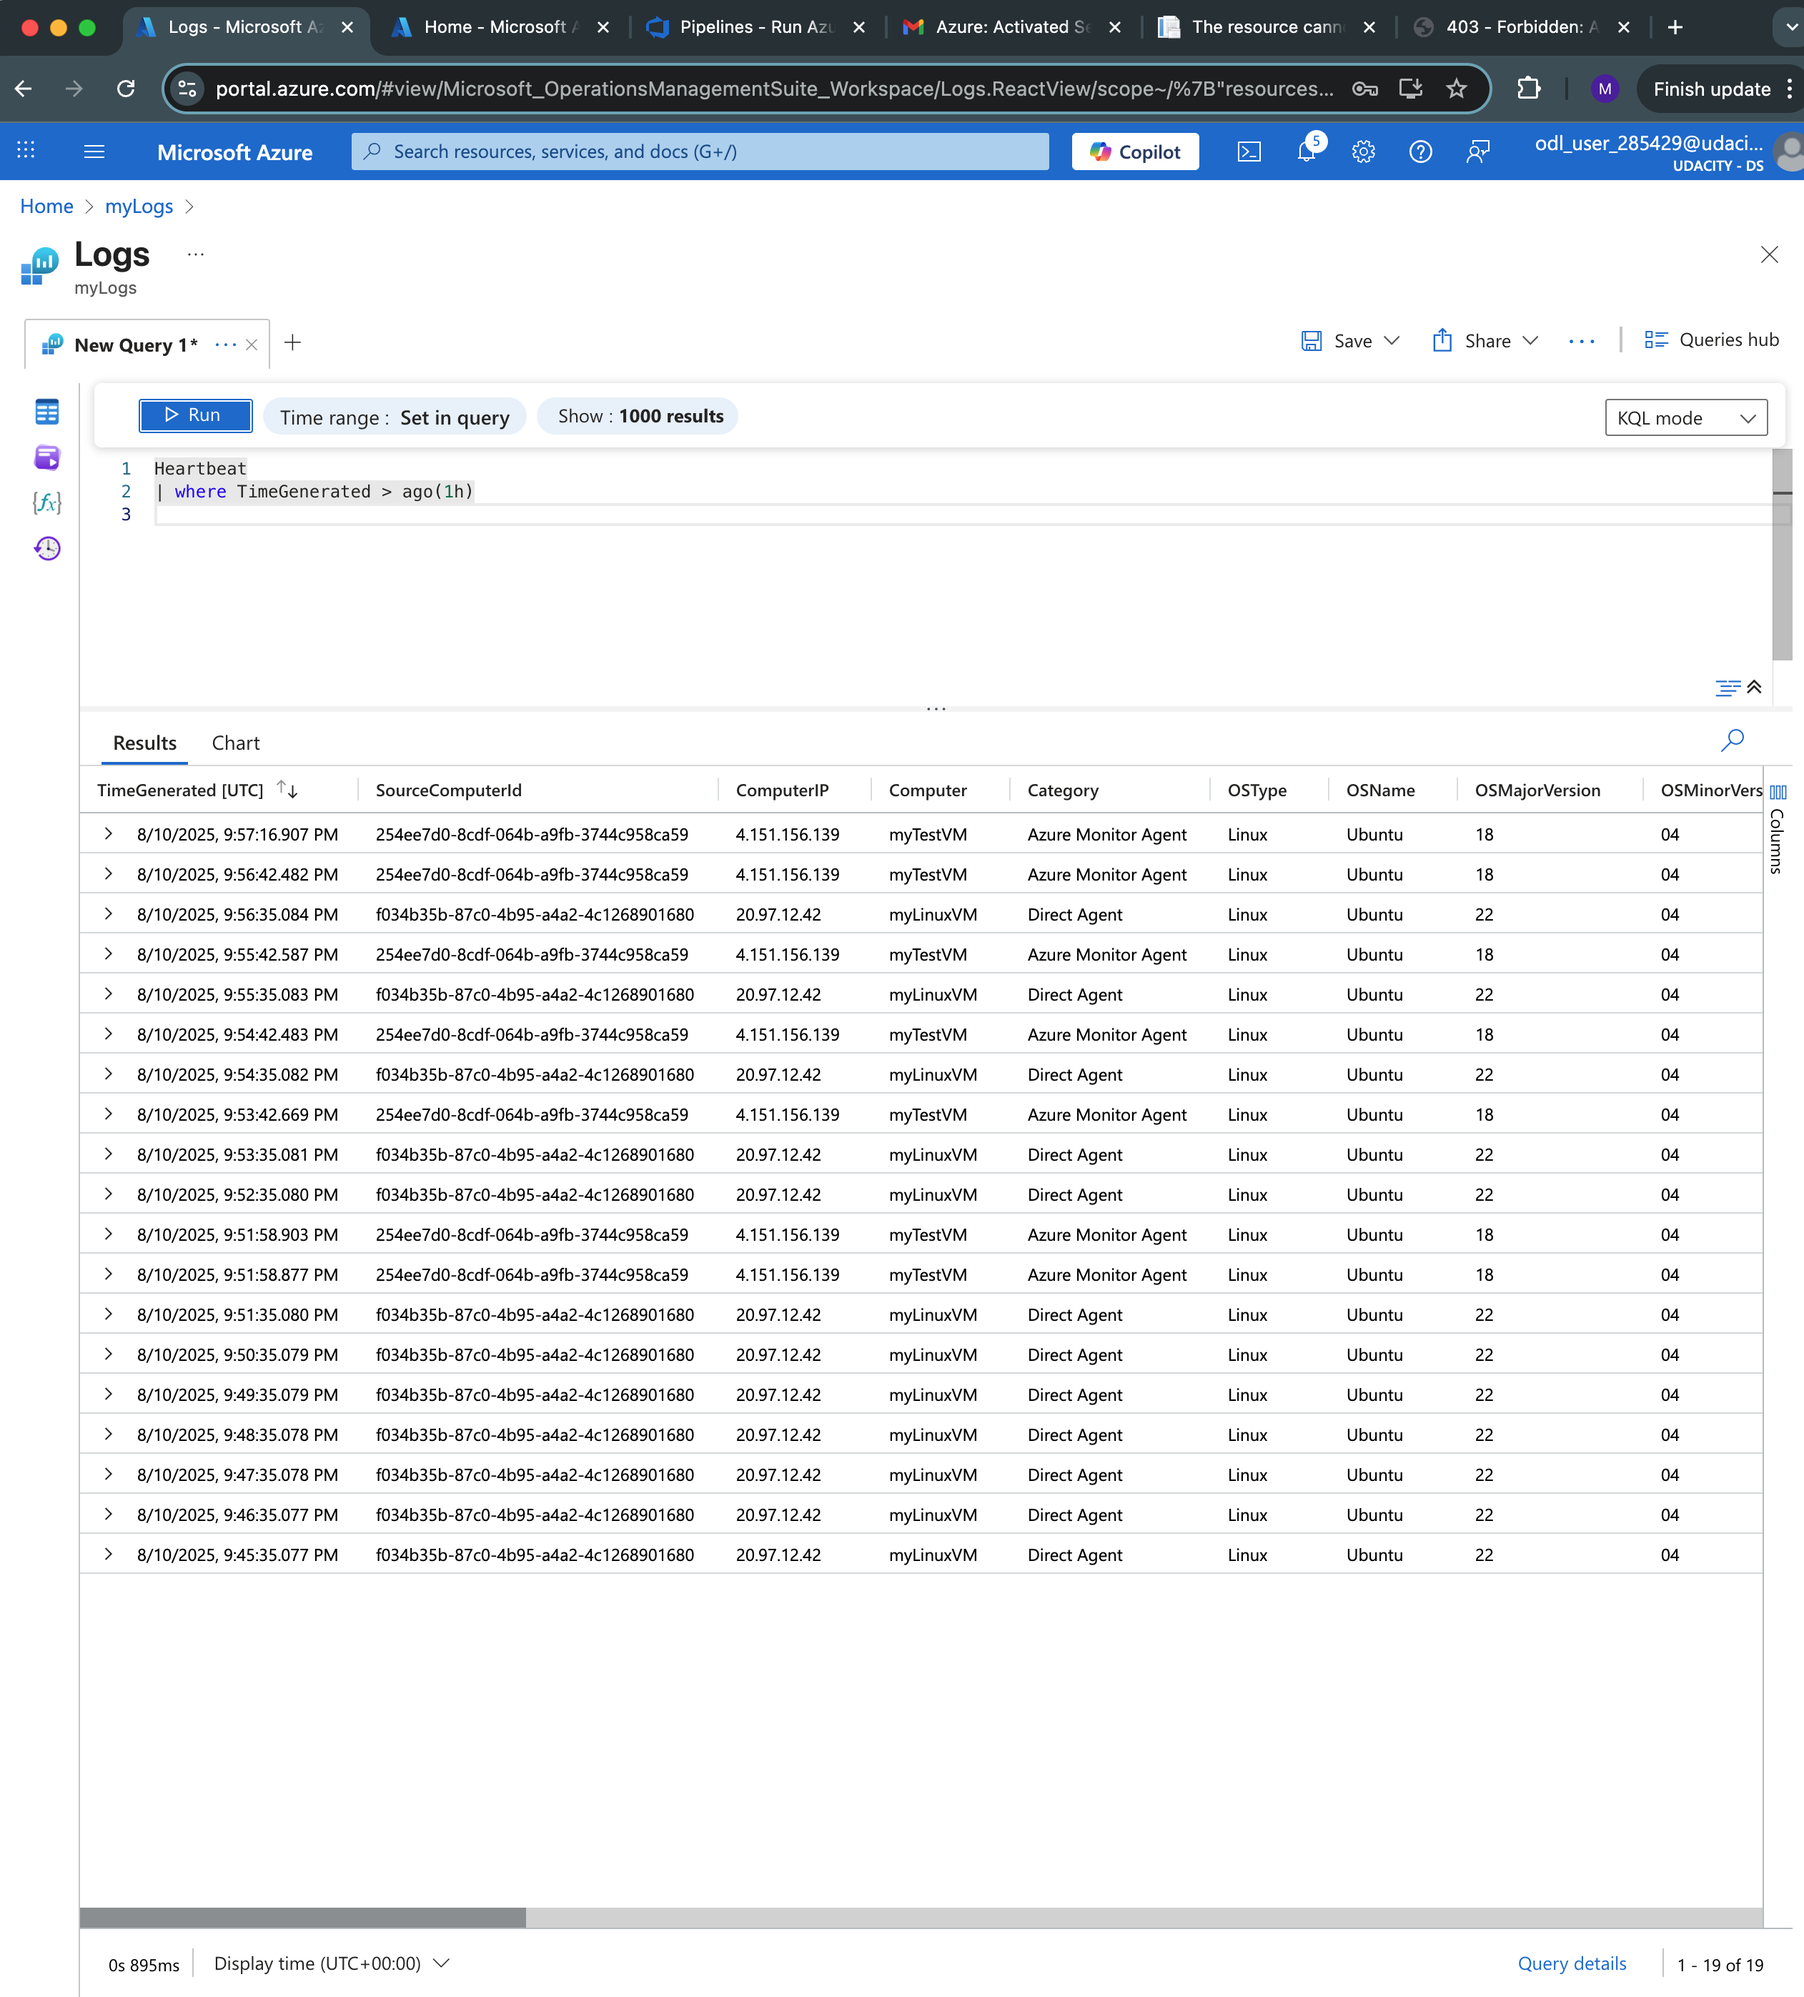
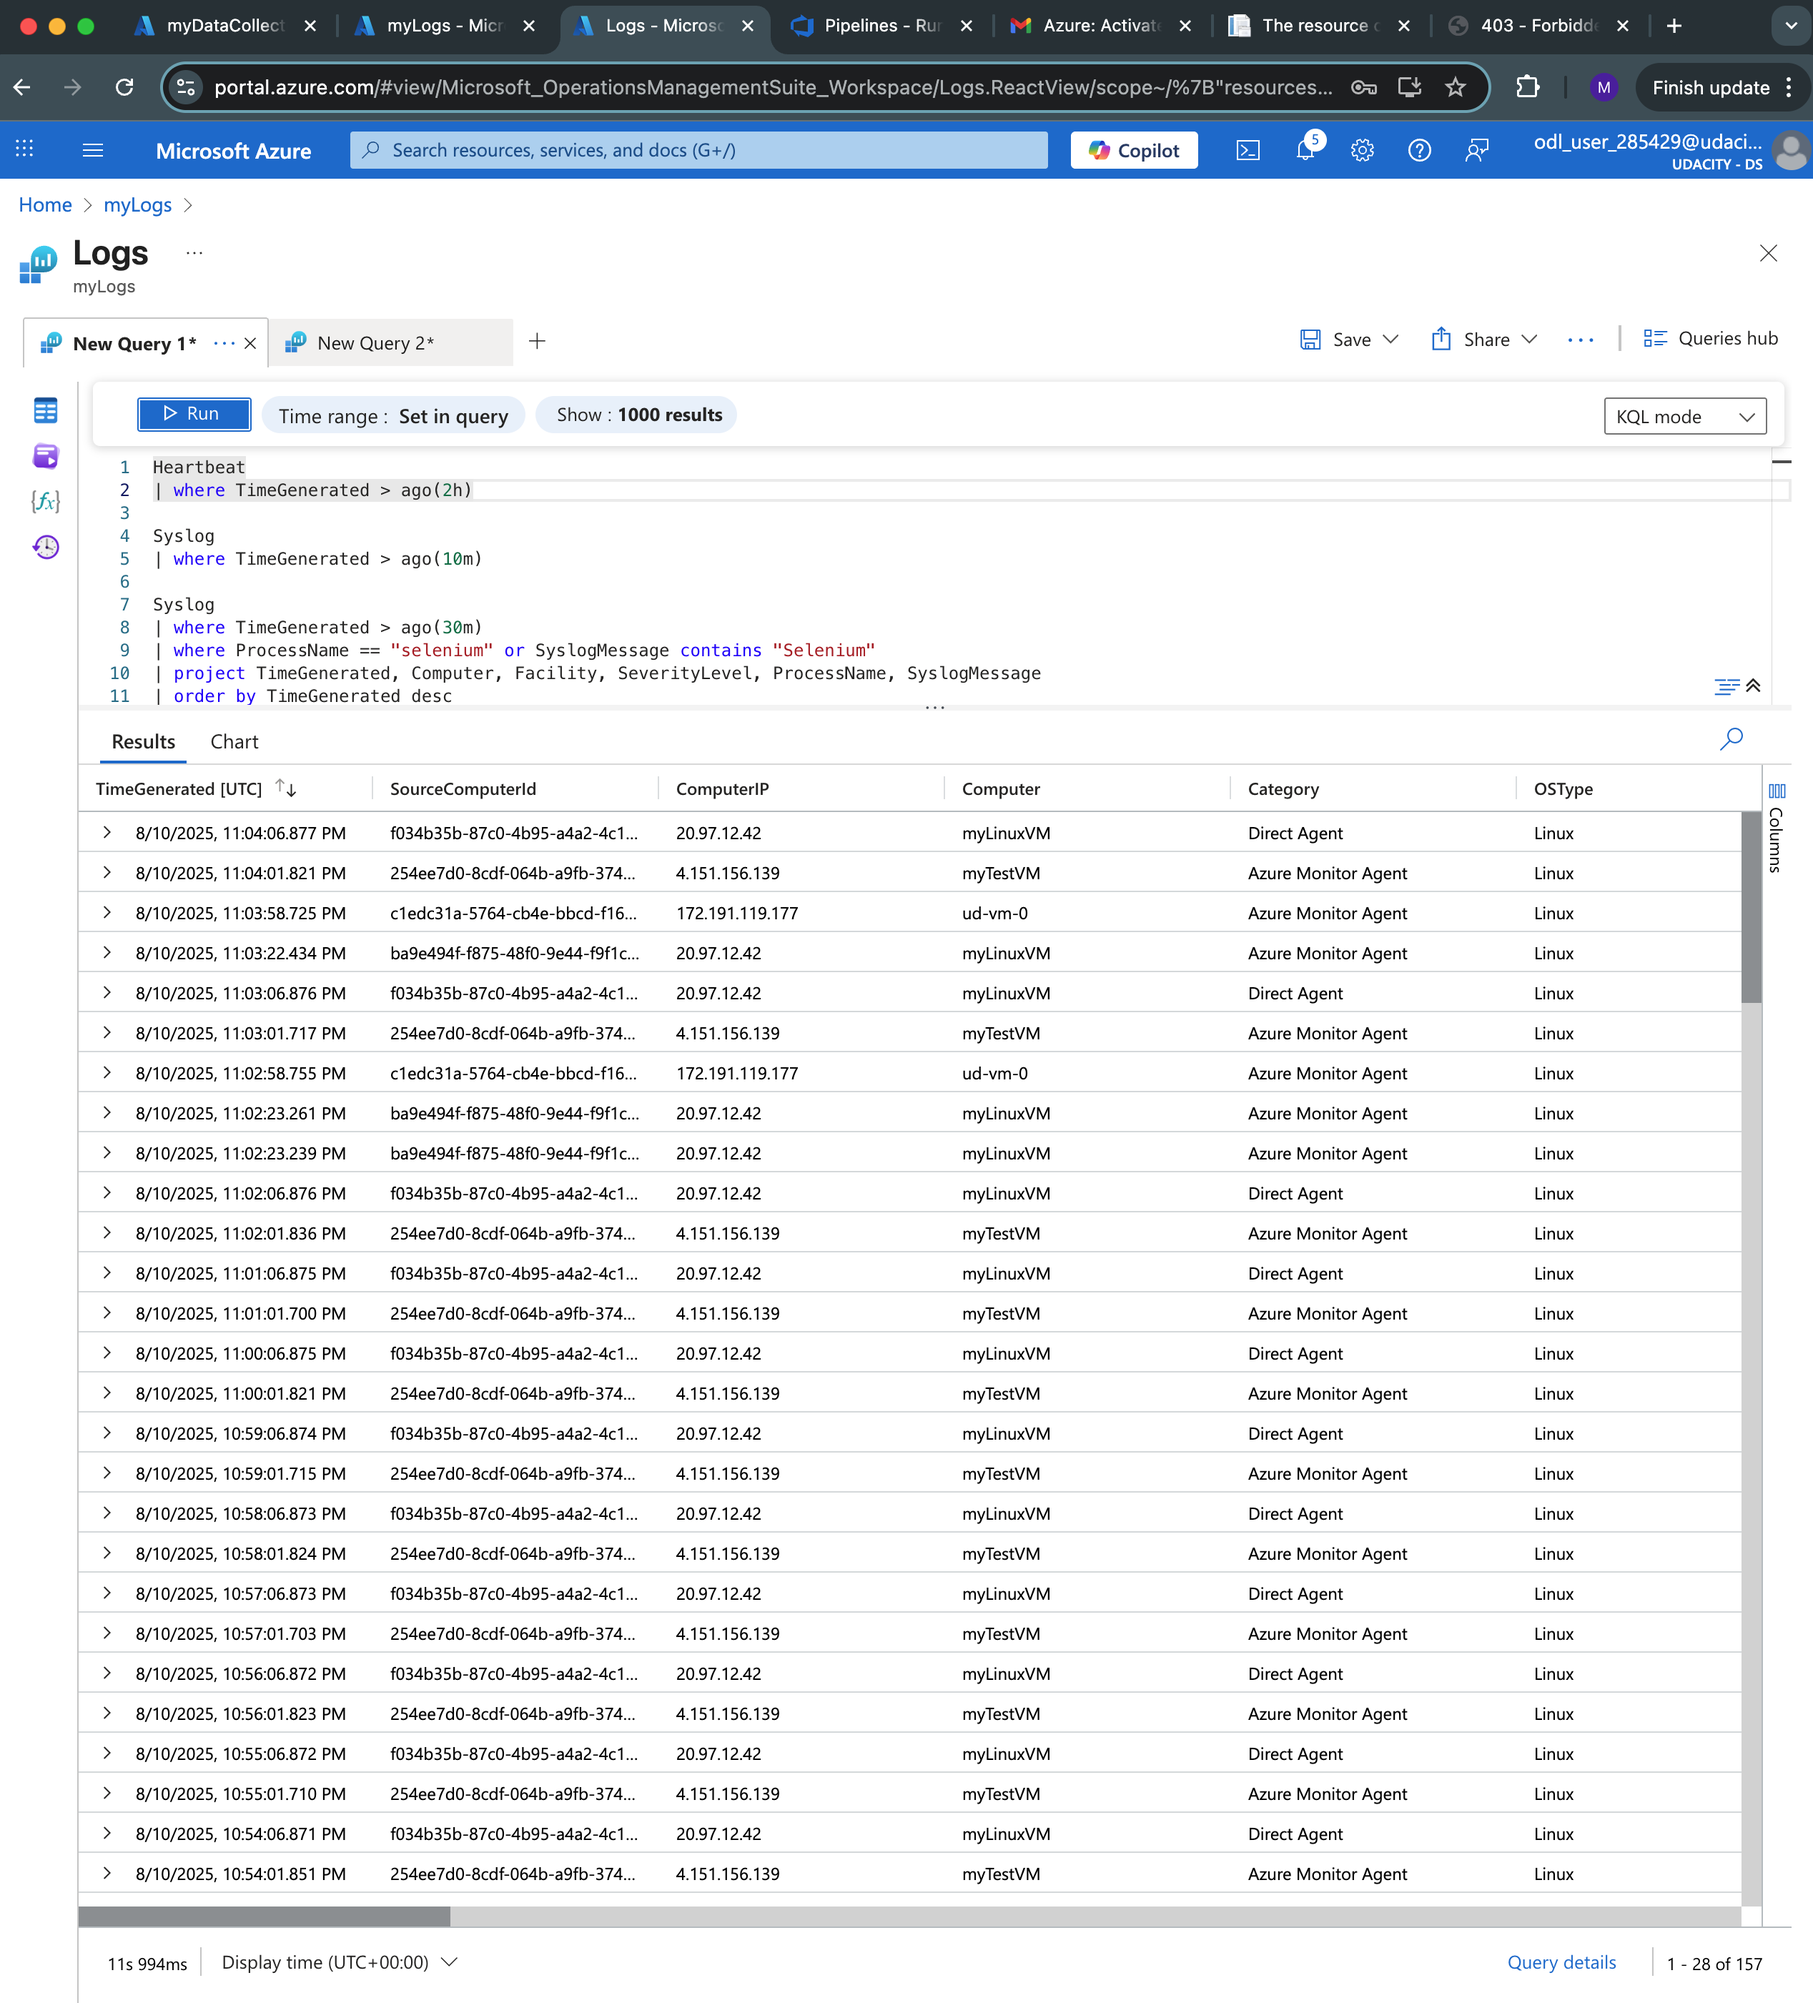
show all screenshots

diff --git a/README.md b/README.md
@@ -125,11 +125,24 @@ How to find specific logs within Azure
 - In the Azure portal go to the web app service that was just deployed
 - Go to **Log Analytics workspaces** then click **Create** and fill in the information
 - After the resource is created, on the left click **Logs**
-- Ensure your data sources are connected
+- Create a new **Connection rule** and ensure your VM's are selected
+- Ensure the minimum log level is **INFO**
 - Fill in the Query
 ```KQL
+// General heartbeats, myLinuxVm should show up
 Heartbeat
 | where TimeGenerated > ago(2h)
+
+// General Syslogs
+Syslog
+| where TimeGenerated > ago(10m)
+
+// Selenium logs
+Syslog
+| where TimeGenerated > ago(30m)
+| where ProcessName == "selenium" or SyslogMessage contains "Selenium"
+| project TimeGenerated, Computer, Facility, SeverityLevel, ProcessName, SyslogMessage
+| order by TimeGenerated desc
 
 ```
 
